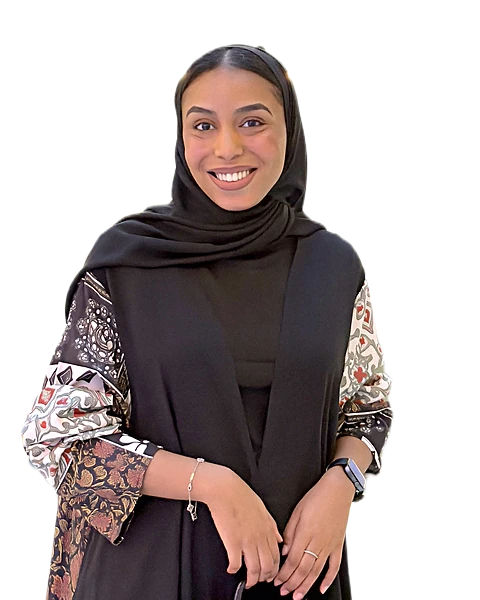
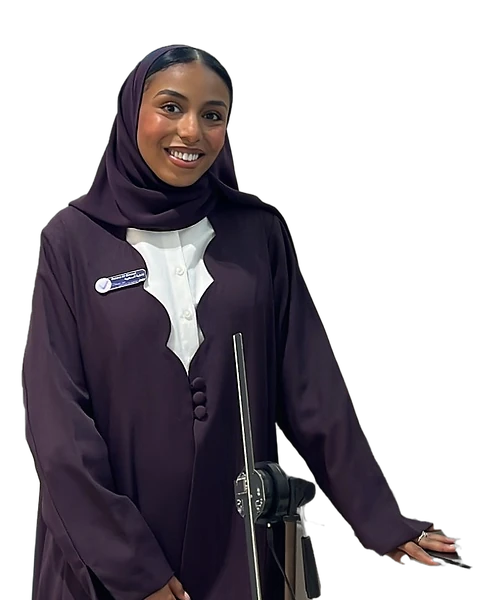
Smaller team cards, Fatma's new photo, quicker reveals
Team cards sit four to a row on laptops and two on phones, so photos are
shown nearer their real size. The scan waits for most of the frame to be on
screen, and scroll reveals finish sooner so each card is in place for it.

Claude-Session: https://claude.ai/code/session_01UqYfgUVQ71Z2mj6btitSC8

diff --git a/src/hooks/use-scan.ts b/src/hooks/use-scan.ts
@@ -16,15 +16,15 @@ export function useScan<T extends HTMLElement>() {
     const photo = element.querySelector('img')
     let visible = false
 
-    // Wait until the card is well up the screen, so its fly-in has finished and the sweep is seen in full.
+    // Wait until most of the frame is on screen, so its fly-in is nearly done and the sweep is seen in full.
     const play = new IntersectionObserver(
       ([entry]) => {
-        if (!entry.isIntersecting || visible) return
+        if (entry.intersectionRatio < 0.6 || visible) return
         visible = true
         const loaded = photo ? photo.decode().catch(() => undefined) : Promise.resolve()
         loaded.then(() => visible && element.classList.add('is-scanned'))
       },
-      { rootMargin: '0px 0px -40% 0px' },
+      { threshold: 0.6 },
     )
     // Fully off screen: hide the photo again so the next visit scans it in afresh.
     const reset = new IntersectionObserver(([entry]) => {

diff --git a/src/routes/{-$locale}/about.tsx b/src/routes/{-$locale}/about.tsx
@@ -49,9 +49,9 @@ function AboutPage() {
 
       <Section glow="blue">
         <SectionHeading title={t('about.team.title')} lead={t('about.team.lead')} />
-        <div className="grid gap-x-6 gap-y-12 sm:grid-cols-2 lg:grid-cols-3">
+        <div className="grid grid-cols-2 gap-x-4 gap-y-10 sm:gap-x-6 sm:gap-y-12 lg:grid-cols-4">
           {TEAM.map((member, index) => (
-            <MemberCard key={member.id} member={member} index={index % 3} />
+            <MemberCard key={member.id} member={member} index={index % 4} />
           ))}
         </div>
         <h3 className="mt-20 mb-6 border-t pt-8 text-2xl font-semibold">{t('about.team.advisors')}</h3>

diff --git a/src/styles/app.css b/src/styles/app.css
@@ -280,7 +280,7 @@
         page-in 0.9s cubic-bezier(0.2, 0.7, 0.2, 1) calc(80ms + var(--reveal-index, 0) * 120ms) backwards;
       animation-timeline: view(), view(), auto;
       animation-range:
-        entry calc(var(--reveal-index, 0) * 8%) cover calc(28% + var(--reveal-index, 0) * 6%),
+        entry calc(var(--reveal-index, 0) * 5%) cover calc(20% + var(--reveal-index, 0) * 4%),
         exit 0% exit 90%,
         normal;
     }

diff --git a/src/components/sections/member-card.tsx b/src/components/sections/member-card.tsx
@@ -22,7 +22,7 @@ export function MemberCard({ member, compact = false, index = 0 }: { member: Mem
           <img
             src={member.photo}
             srcSet={photoSrcSet(member)}
-            sizes={compact ? '8rem' : '(min-width: 1024px) 22rem, (min-width: 640px) 45vw, 90vw'}
+            sizes={compact ? '8rem' : '(min-width: 1024px) 17rem, 45vw'}
             alt={name}
             width={800}
             height={1000}

diff --git a/src/content/team.ts b/src/content/team.ts
@@ -9,7 +9,7 @@ export type Member = {
 }
 
 export const TEAM: Member[] = [
-  { id: 'fatma', photo: '/team/fatma.webp?v=5', hd: true },
+  { id: 'fatma', photo: '/team/fatma.webp?v=6', hd: true },
   { id: 'anaum', photo: '/team/anaum.webp' },
   { id: 'anas', photo: '/team/anas.webp?v=3' },
   { id: 'ibtisam', photo: '/team/ibtisam.webp' },
